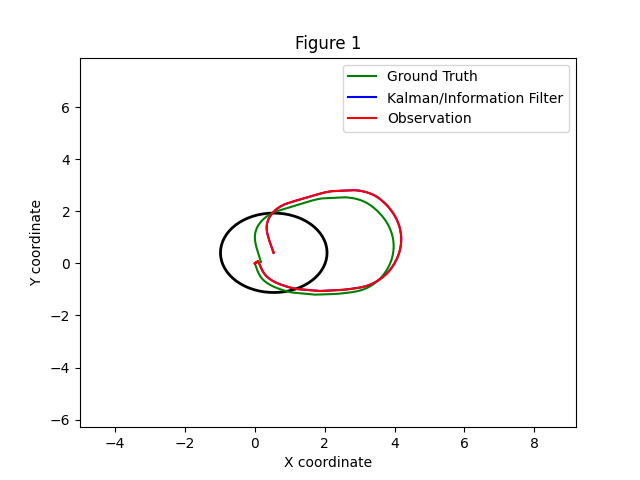
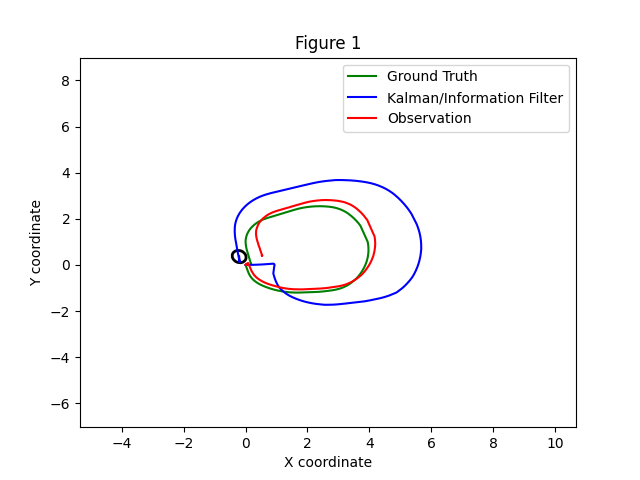
FinPract

diff --git a/p3_ekf_adr/filters/ekf.py b/p3_ekf_adr/filters/ekf.py
@@ -32,49 +32,49 @@ class ExtendedKalmanFilter:
 
 		
 	def predict(self, u, dt):
-		start_time = time.time()
-        # === TODO: Implement the EKF prediction step ===
+			start_time = time.time()
 
-        # 1. Predict the new mean using motion model g
-		self.mu = self.g(self.mu, u, dt)
-        # 2. Compute the Jacobian of the motion model G_t
-		#self.G = self.G(self.mu, u, dt)
-        # 3. Update the covariance
-		self.Sigma = self.G(self.mu, u, dt) @ self.Sigma @ self.G(self.mu, u, dt).T + self.R
-        # ===============================================
+			# 1. Calcular nueva estimación de estado usando función de transición g
+			self.mu = self.g(self.mu, u, dt)
 
-		end_time = time.time()
-		execution_time = end_time - start_time
-		self.exec_times_pred.append(execution_time)
-		print(f"Execution time prediction: {execution_time} seconds")
+			# 2. Calcular Jacobiano de la función g respecto al estado
+			G_t = self.G(self.mu, u, dt)
 
-		print("Average exec time pred: ", sum(self.exec_times_pred) / len(self.exec_times_pred))
+			# 3. Calcular Jacobiano de la función g respecto a la entrada de control (no usado aquí directamente)
+			V = self.V(self.mu, u, dt)
 
+			# 4. Actualizar la matriz de covarianza con la propagación del error y ruido de proceso
+			self.Sigma = G_t @ self.Sigma @ G_t.T + self.R
 
-		return self.mu, self.Sigma
+			end_time = time.time()
+			execution_time = end_time - start_time
+			self.exec_times_pred.append(execution_time)
+
+			return self.mu, self.Sigma
 
 	def update(self, z, dt):
 		start_time = time.time()
 
-        # === TODO: Implement the EKF correction step ===
+		# 1. Calcular Jacobiano de la función de observación H_t en el estado actual
+		H_t = self.H(self.mu)
 
-        # 1. Compute the Jacobian of the observation model H_t
-		#self.H = self.H(self.mu)
-        # 2. Innovation covariance
-		S = self.H(self.mu) @ self.Sigma @ self.H(self.mu).T + self.Q
-        # 3. Kalman gain
-		K = self.Sigma @ self.H(self.mu).T @ np.linalg.inv(S)
-        # 4. Innovation (difference between actual and expected measurement)
-		y = z - self.h(self.mu)
-        # 5. Update the state estimate
-		self.mu = self.mu + (K @ y).reshape((self.mu.shape[0],))
-		
-        # 6. Update the covariance
-		self.Sigma = (np.eye(len(K)) - K @ self.H(self.mu)) @ self.Sigma
-		
+		# 2. Calcular la covarianza de la innovación
+		S = H_t @ self.Sigma @ H_t.T + self.Q
+
+		# 3. Calcular la ganancia de Kalman K
+		K = self.Sigma @ H_t.T @ np.linalg.inv(S)
+
+		# 4. Calcular la innovación (diferencia entre observación real y estimada)
+		z_vec = z.reshape(-1)
+		h_vec = self.h(self.mu).reshape(-1)
+		y = z_vec - h_vec
+
+		# 5. Actualizar la estimación del estado usando la ganancia de Kalman y la innovación
+		self.mu = self.mu + K @ y
+
+		# 6. Actualizar la matriz de covarianza de la estimación
 		I = np.eye(len(self.mu))
-
-        # ================================================
+		self.Sigma = (I - K @ H_t) @ self.Sigma
 
 		end_time = time.time()
 		self.exec_times_upd.append(end_time - start_time)

diff --git a/p3_ekf_adr/ekf_8d_state_estimation.py b/p3_ekf_adr/ekf_8d_state_estimation.py
@@ -14,15 +14,17 @@ def main(args=None):
 
     mu0 = np.zeros(8)
     Sigma0 = np.eye(8)
-    # Ajuste balanceado
-    #proc_noise_std = [1.0, 1.0, 0.5, 0.2, 0.2, 0.5, 0.5, 0.5]
-    #obs_noise_std = [1.0, 1.0, 0.5, 0.2, 0.2, 0.5, 0.5]
-    # Alta Q
-    #proc_noise_std = [1.0, 1.0, 0.5, 0.2, 0.2, 0.5, 0.5, 0.5]
-    #obs_noise_std = [2.0, 2.0, 1.0, 0.4, 0.4, 1.0, 1.0]
-    # Alta R
-    proc_noise_std = [2.0, 2.0, 1.0, 0.4, 0.4, 1.0, 1.0, 1.0]
-    obs_noise_std = [1.0, 1.0, 0.5, 0.2, 0.2, 0.5, 0.5]
+
+    # Ajuste Balanceado
+    #proc_noise_std = [0.1, 0.1, 0.05, 0.1, 0.1, 0.1, 0.1, 0.1]  # Ruido moderado en el modelo
+    #obs_noise_std  = [100.0, 100.0, 1000.0, 6.85e-06, 1.10e-06, 0.00153, 0.00153]  # Ruido moderado en las observaciones
+    # Ajuste con Alta Q
+    #proc_noise_std = [0.1, 0.1, 0.05, 0.1, 0.1, 0.1, 0.1, 0.1]  # Ruido moderado en el modelo
+    #obs_noise_std  = [1000.0, 1000.0, 10000.0, 6.85e-05, 1.10e-05, 0.15, 0.15]  # Ruido alto en las observaciones
+    # Ajuste con Alta R
+    proc_noise_std = [1.0, 1.0, 0.5, 1.0, 1.0, 1.0, 1.0, 1.0]  # Ruido alto en el modelo
+    obs_noise_std  = [100.0, 100.0, 1000.0, 6.85e-06, 1.10e-06, 0.00153, 0.00153]  # Ruido moderado en las observaciones
+
 
     # === TODO: Replace the None below with proper motion and observation model functions ===
     ekf = ExtendedKalmanFilter(mu0, Sigma0,

diff --git a/p3_ekf_adr/ekf_7d_state_estimation.py b/p3_ekf_adr/ekf_7d_state_estimation.py
@@ -16,15 +16,16 @@ def main(args=None):
     mu0 = np.zeros(7)
     Sigma0 = np.eye(7)
 
-    # Ajuste balanceado
-    #proc_noise_std = [1.0, 1.0, 0.5, 0.2, 0.2, 0.5, 0.5]
-    #obs_noise_std = [1.0, 1.0, 0.5, 0.2, 0.2, 0.5, 0.5]
-    # Alta Q
-    #proc_noise_std = [1.0, 1.0, 0.5, 0.2, 0.2, 0.5, 0.5]
-    #obs_noise_std = [2.0, 2.0, 1.0, 0.4, 0.4, 1.0, 1.0]
-    # Alta R
-    proc_noise_std = [2.0, 2.0, 1.0, 0.4, 0.4, 1.0, 1.0]
-    obs_noise_std = [1.0, 1.0, 0.5, 0.2, 0.2, 0.5, 0.5]
+    # Ajuste Balanceado
+    #proc_noise_std = [0.1, 0.1, 0.05, 0.1, 0.1, 0.1, 0.1] 
+    #obs_noise_std  = [100.0, 100.0, 1000.0, 6.853891945200942e-06, 1.0966227112321507e-06, 0.0015387262937311438, 0.0015387262937311438] 
+    # Ajuste con Alta Q
+    #proc_noise_std = [0.1, 0.1, 0.05, 0.1, 0.1, 0.1, 0.1]  
+    #obs_noise_std  = [1000.0, 1000.0, 10000.0, 6.853891945200942e-05, 1.0966227112321507e-05, 0.15, 0.15]  
+    # Ajuste con Alta R
+    proc_noise_std = [1.0, 1.0, 0.5, 1.0, 1.0, 1.0, 1.0]  
+    obs_noise_std  = [100.0, 100.0, 1000.0, 6.853891945200942e-06, 1.0966227112321507e-06, 0.0015387262937311438, 0.0015387262937311438]  
+
 
     # === TODO: Replace the None below with proper motion and observation model functions ===
     ekf = ExtendedKalmanFilter(mu0, Sigma0,

diff --git a/p3_ekf_adr/ekf_3d_state_estimation.py b/p3_ekf_adr/ekf_3d_state_estimation.py
@@ -14,16 +14,16 @@ def main(args=None):
     # Initialize the Kalman Filter
     mu0 = np.zeros(3)
     Sigma0 = np.eye(3)
-    # Ajuste balanceado
-    #proc_noise_std = [1.22, 1.22, 0.44]
-    #obs_noise_std = [1.22, 1.22, 0.44]
-    # Alta Q
-    #proc_noise_std = [1.22, 1.22, 0.44]
-    #obs_noise_std = [2.44, 2.44, 0.88]   
-    # Alta R
-    proc_noise_std = [2.44, 2.44, 0.88]
-    obs_noise_std = [1.22, 1.22, 0.44]
-
+    # Ajuste Balanceado
+    #proc_noise_std = [0.002, 0.002, 0.001]  
+    #obs_noise_std = [1.02, 1.02, 100.01]    
+    # Ajuste con Alta Q
+    #proc_noise_std = [0.002, 0.002, 0.001]  
+    #obs_noise_std = [10.0, 10.0, 1000.0]   
+    # Ajuste con Alta R
+    proc_noise_std = [0.2, 0.2, 0.1]       
+    obs_noise_std = [1.02, 1.02, 100.01]    
+    
     ekf = ExtendedKalmanFilter(mu0, Sigma0, 
                                velocity_motion_model_linearized,
                                odometry_observation_model_linearized,
